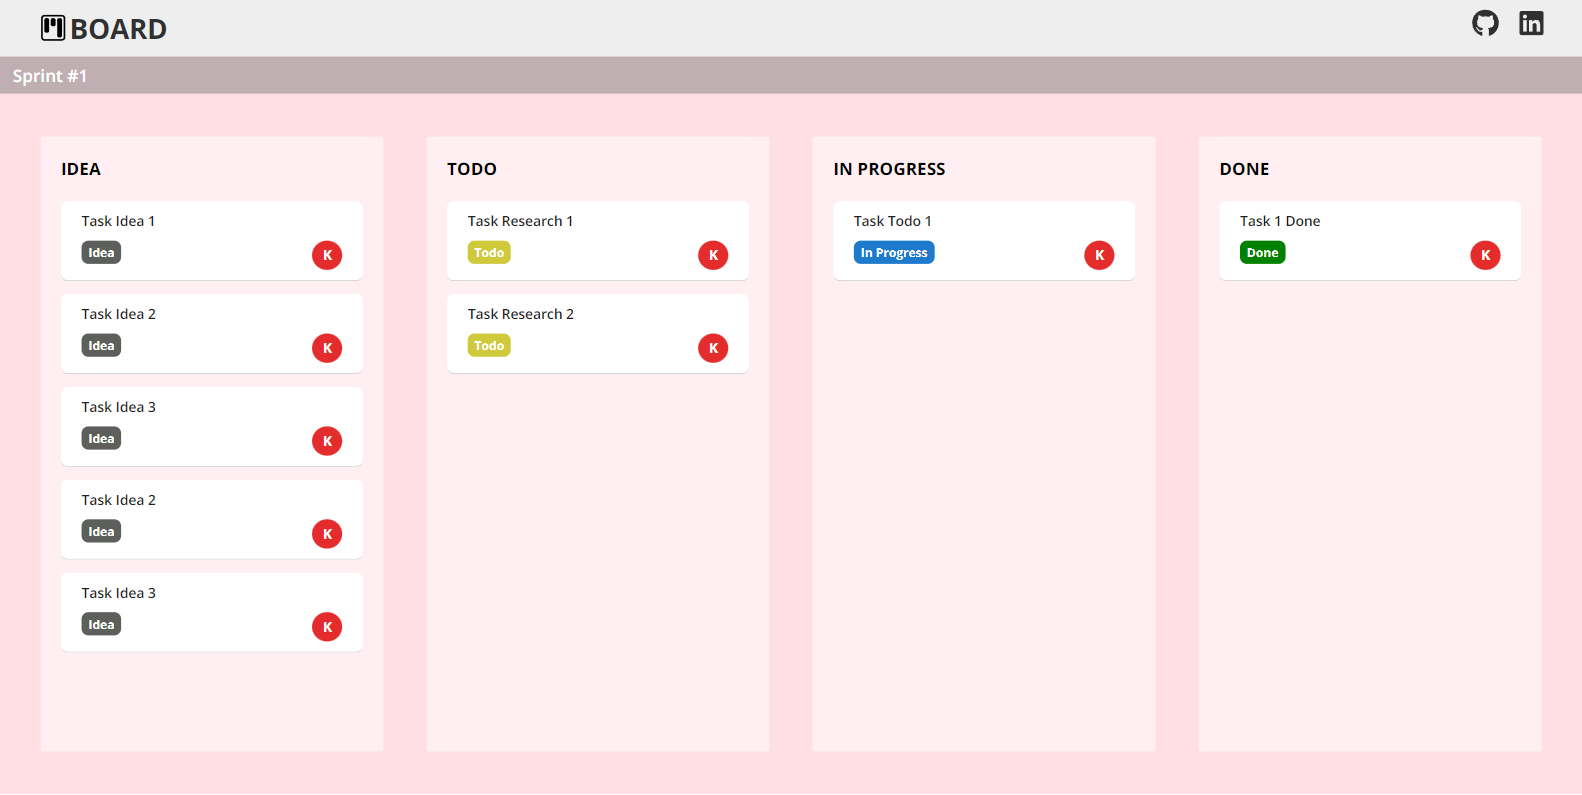
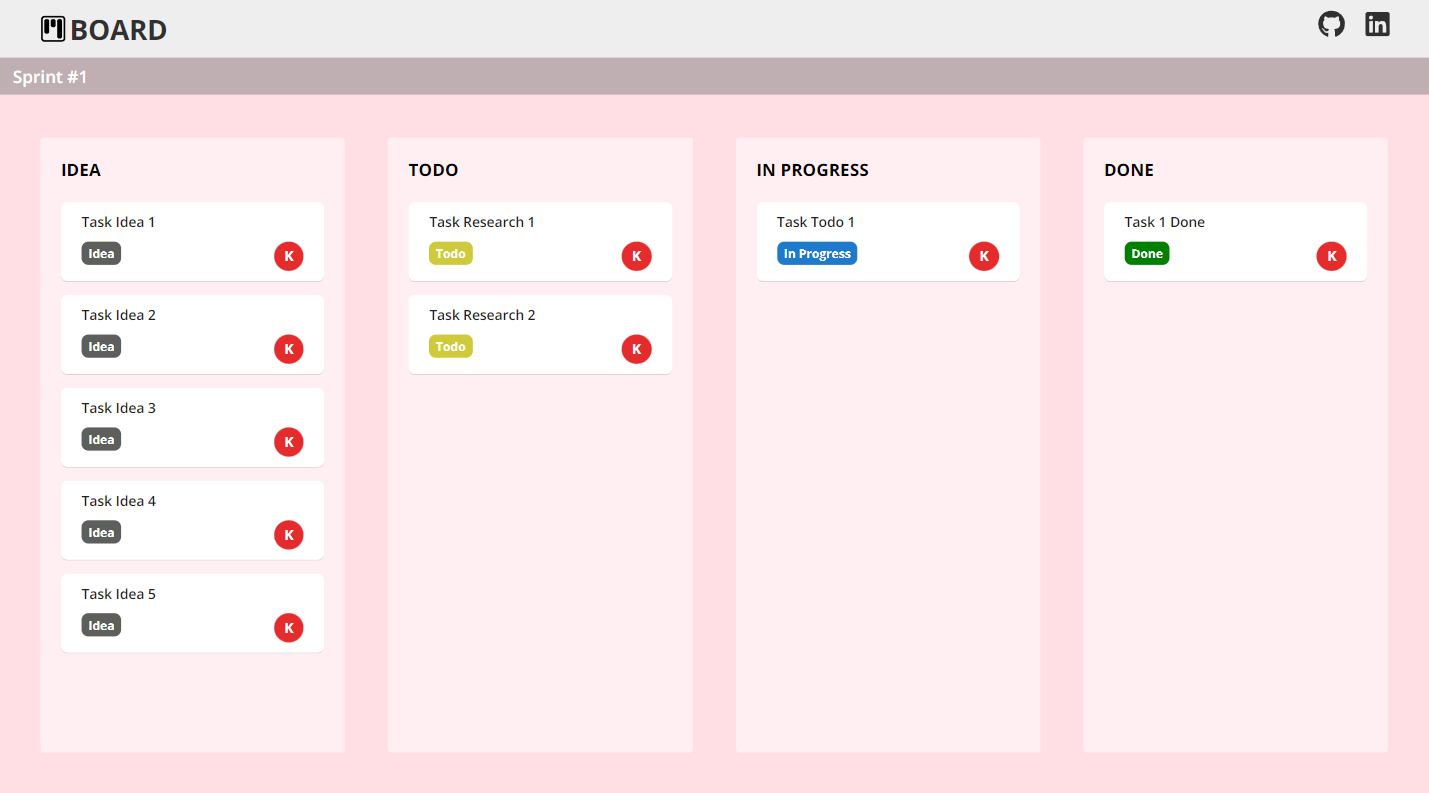
alterado nome das tasks

diff --git a/src/app/pages/board/board.component.ts b/src/app/pages/board/board.component.ts
@@ -14,21 +14,21 @@ export class BoardComponent implements OnInit {
 
   board: Board = new Board('Sprint #1', [
     new Column('idea', [
-      new Task('Task Idea 1', 'Essa é a task 1', TaskStatus.IDEA),
-      new Task('Task Idea 2', 'Essa é a task 2', TaskStatus.IDEA),
-      new Task('Task Idea 3', 'Essa é a task 3', TaskStatus.IDEA),
-      new Task('Task Idea 2', 'Essa é a task 2', TaskStatus.IDEA),
-      new Task('Task Idea 3', 'Essa é a task 3', TaskStatus.IDEA),
+      new Task('Task Idea 1', 'Essa é a task número 1', TaskStatus.IDEA),
+      new Task('Task Idea 2', 'Essa é a task número 2', TaskStatus.IDEA),
+      new Task('Task Idea 3', 'Essa é a task número 3', TaskStatus.IDEA),
+      new Task('Task Idea 4', 'Essa é a task número 4', TaskStatus.IDEA),
+      new Task('Task Idea 5', 'Essa é a task número 5', TaskStatus.IDEA),
     ]),
     new Column('todo', [
-      new Task('Task Research 1', 'Essa é a task 1', TaskStatus.TODO),
-      new Task('Task Research 2', 'Essa é a task 2', TaskStatus.TODO),
+      new Task('Task Research 1', 'Essa é a task número 1', TaskStatus.TODO),
+      new Task('Task Research 2', 'Essa é a task número 2', TaskStatus.TODO),
     ]),
     new Column('in progress', [
-      new Task('Task todo 1', 'Essa é a task 1', TaskStatus.IN_PROGRESS),
+      new Task('Task todo 1', 'Essa é a task número 1', TaskStatus.IN_PROGRESS),
     ]),
     new Column('done', [
-      new Task('Task 1 done', 'Essa é a task 1', TaskStatus.DONE),
+      new Task('Task 1 done', 'Essa é a task número 1', TaskStatus.DONE),
     ]),
     
   ])
